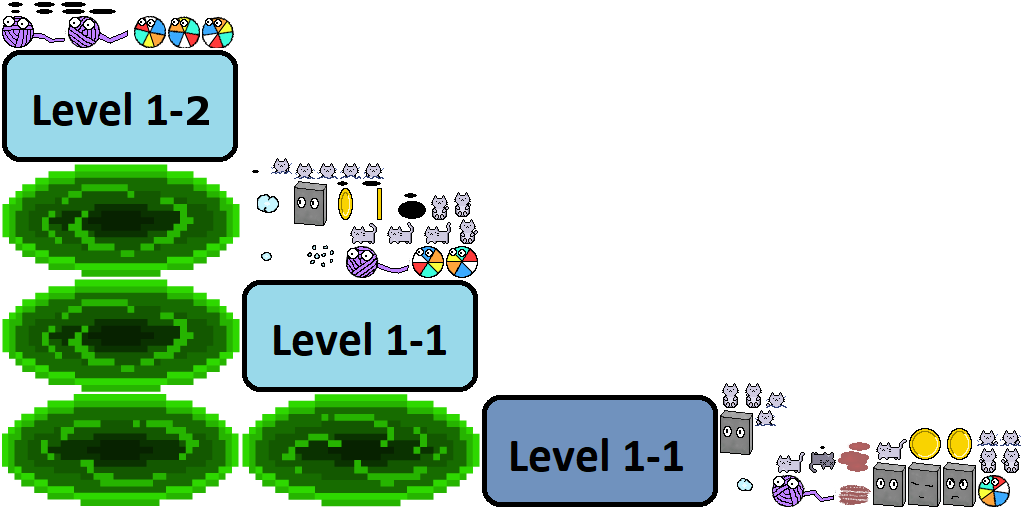
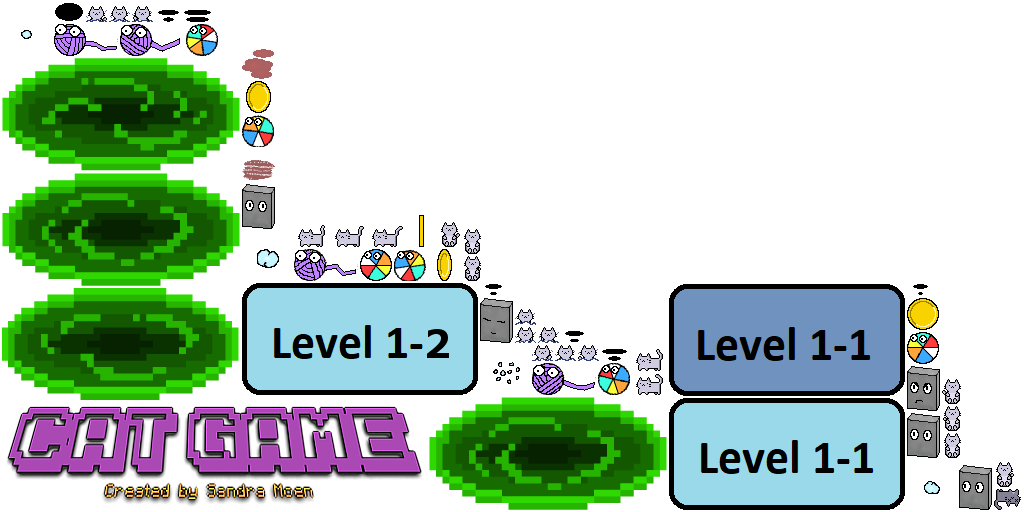
menu layout is complete, added menu title and buttonlisteners, started on HUD, is WIP

diff --git a/core/src/com/sandra/game/screens/Menu.java b/core/src/com/sandra/game/screens/Menu.java
@@ -6,18 +6,19 @@ import com.badlogic.gdx.Screen;
 import com.badlogic.gdx.assets.AssetManager;
 import com.badlogic.gdx.graphics.GL20;
 import com.badlogic.gdx.graphics.OrthographicCamera;
-import com.badlogic.gdx.graphics.g2d.Sprite;
+import com.badlogic.gdx.graphics.g2d.TextureRegion;
 import com.badlogic.gdx.scenes.scene2d.Stage;
 import com.badlogic.gdx.scenes.scene2d.ui.Button;
+import com.badlogic.gdx.scenes.scene2d.ui.Image;
 import com.badlogic.gdx.scenes.scene2d.ui.Table;
 import com.badlogic.gdx.scenes.scene2d.ui.Button.ButtonStyle;
 import com.badlogic.gdx.scenes.scene2d.utils.TextureRegionDrawable;
-import com.badlogic.gdx.utils.Array;
 import com.badlogic.gdx.utils.viewport.StretchViewport;
 import com.sandra.game.Cat_game;
 import com.sandra.game.handlers.MenuInputListener;
 import com.sandra.game.utils.Assets;
 import com.sandra.game.utils.Constants;
+import com.sandra.game.screens.Level_1_2;
 
 public class Menu implements Screen {
 
@@ -28,12 +29,12 @@ public class Menu implements Screen {
     private Stage stage;
     private Table table;
 
+    private TextureRegion menu_title_tex;
+
     private Button level_1_1_btn;
-    private Sprite level_1_1_btn_sprite;
     private MenuInputListener level_1_1_btn_listener;
 
     private Button level_1_2_btn;
-    private Sprite level_1_2_btn_sprite;
     private MenuInputListener level_1_2_btn_listener;
 
     public Menu(Cat_game game) { this.game = game; }
@@ -51,27 +52,32 @@ public class Menu implements Screen {
         stage = new Stage(new StretchViewport(Constants.GAME_WIDTH, Constants.GAME_HEIGHT, camera));
         Gdx.input.setInputProcessor(stage);
 
+        // Title
+        menu_title_tex = Assets.instance.menuAssets.menu_title;
+        Image menu_title_image = new Image(menu_title_tex);
+
         // Buttons
         ButtonStyle buttonStyle = new ButtonStyle();
-        buttonStyle.up = new TextureRegionDrawable(Assets.instance.buttonsAssets.button_1_1);
-        Button level_1_1_btn = new Button(buttonStyle);
+        buttonStyle.up = new TextureRegionDrawable(Assets.instance.menuAssets.button_1_1);
+        level_1_1_btn = new Button(buttonStyle);
         level_1_1_btn_listener = new MenuInputListener();
         level_1_1_btn.addListener(level_1_1_btn_listener);
         
-        buttonStyle.up = new TextureRegionDrawable(Assets.instance.buttonsAssets.button_1_2);
-        Button level_1_2_btn = new Button(buttonStyle);
+        buttonStyle = new ButtonStyle();
+        buttonStyle.up = new TextureRegionDrawable(Assets.instance.menuAssets.button_1_2);
+        level_1_2_btn = new Button(buttonStyle);
         level_1_2_btn_listener = new MenuInputListener();
-        level_1_2_btn.addListener(level_1_1_btn_listener);
+        level_1_2_btn.addListener(level_1_2_btn_listener);
 
         // Table
         table = new Table();
         stage.addActor(table);
         table.setFillParent(true);
-        table.debug();
-        table.add(level_1_1_btn).colspan(2);
+        // table.debug();
+        table.add(menu_title_image).colspan(2).width(425*1.5f).height(107*1.5f);
         table.row();
-        table.add(level_1_1_btn).width(50).height(50);
-        table.add(level_1_2_btn).width(50).height(50);
+        table.add(level_1_1_btn).width(75).height(50);
+        table.add(level_1_2_btn).width(75).height(50);
     }
 
     @Override
@@ -79,7 +85,7 @@ public class Menu implements Screen {
         if (!pause) {update(delta);}
 
         Gdx.gl20.glClear(GL20.GL_COLOR_BUFFER_BIT);
-        Gdx.gl.glClearColor(1, 0, 1, 1); // magenta
+        Gdx.gl.glClearColor(0, 0, 0, 1); // black
         
         game.batch.begin();
         stage.draw();
@@ -104,17 +110,18 @@ public class Menu implements Screen {
     private void update(float delta) {
         camera.update();
         game.batch.setProjectionMatrix(camera.combined);
-        
         stage.act(delta);
         //stage.getViewport().update(Constants.GAME_WIDTH, Constants.GAME_HEIGHT);
         
 		if(level_1_1_btn_listener.getTouched()) {
             dispose();
+            System.out.println("level_1_1_btn_listener");
             ((Game) Gdx.app.getApplicationListener()).setScreen(new Splash_how_to_play(game));
 		}
 		if(level_1_2_btn_listener.getTouched()) {
             dispose();
-            ((Game) Gdx.app.getApplicationListener()).setScreen(new Splash_how_to_play(game));
+            System.out.println("level_1_2_btn_listener");
+            ((Game) Gdx.app.getApplicationListener()).setScreen(new Level_1_2(game));
 		}
     }
 }

diff --git a/core/src/com/sandra/game/utils/Assets.java b/core/src/com/sandra/game/utils/Assets.java
@@ -22,7 +22,7 @@ public class Assets implements Disposable, AssetErrorListener {
     public CoinAssets coinAssets;
     public YarnBallAssets yarnBallAssets;
     public DustAssets dustAssets;
-    public ButtonsAssets buttonsAssets;
+    public MenuAssets menuAssets;
     public ThwomperAssets thwomperAssets;
     public ShadowAssets shadowAssets;
     public BloodAssets bloodAssets;
@@ -41,7 +41,7 @@ public class Assets implements Disposable, AssetErrorListener {
         coinAssets = new CoinAssets(atlas);
         dustAssets = new DustAssets(atlas);
         yarnBallAssets = new YarnBallAssets(atlas);
-        buttonsAssets = new ButtonsAssets(atlas);
+        menuAssets = new MenuAssets(atlas);
         thwomperAssets = new ThwomperAssets(atlas);
         shadowAssets = new ShadowAssets(atlas);
         bloodAssets = new BloodAssets(atlas);
@@ -71,13 +71,15 @@ public class Assets implements Disposable, AssetErrorListener {
         }
     }
 
-    public class ButtonsAssets {
+    public class MenuAssets {
         // public final AtlasRegion button;
+        public final TextureRegion menu_title;
         public final TextureRegion button_1_1;
         public final TextureRegion button_1_2;
         // public final AtlasRegion button_selected;
 
-        public ButtonsAssets(TextureAtlas atlas) {
+        public MenuAssets(TextureAtlas atlas) {
+            menu_title = atlas.findRegion(Constants.MENU_TITLE);
             button_1_1 = atlas.findRegion(Constants.BUTTON_1_1);
             button_1_2 = atlas.findRegion(Constants.BUTTON_1_2);
             // button_selected = atlas.findRegion(Constants.BUTTON_SELECTED);

diff --git a/core/src/com/sandra/game/utils/Constants.java b/core/src/com/sandra/game/utils/Constants.java
@@ -116,7 +116,8 @@ public class Constants {
     public static final float DUST_LOOP_DURATION = .12f;
     public static final float DUST_DURATION = DUST_LOOP_DURATION * DUST_NUMBER_OF_FRAMES;
 
-    // Buttons
+    // Menu
+    public static String MENU_TITLE = "game_title";
     public static String BUTTON_1_1 = "level1_1_btn";
     public static String BUTTON_1_2 = "level1_2_btn";
     public static String BUTTON_SELECTED  = "level1_1_btn_selected";

diff --git a/core/src/com/sandra/game/utils/HUD.java b/core/src/com/sandra/game/utils/HUD.java
@@ -1,0 +1,8 @@
+package com.sandra.game.utils;
+
+public class HUD {
+    
+    public HUD() {
+
+    }
+}
